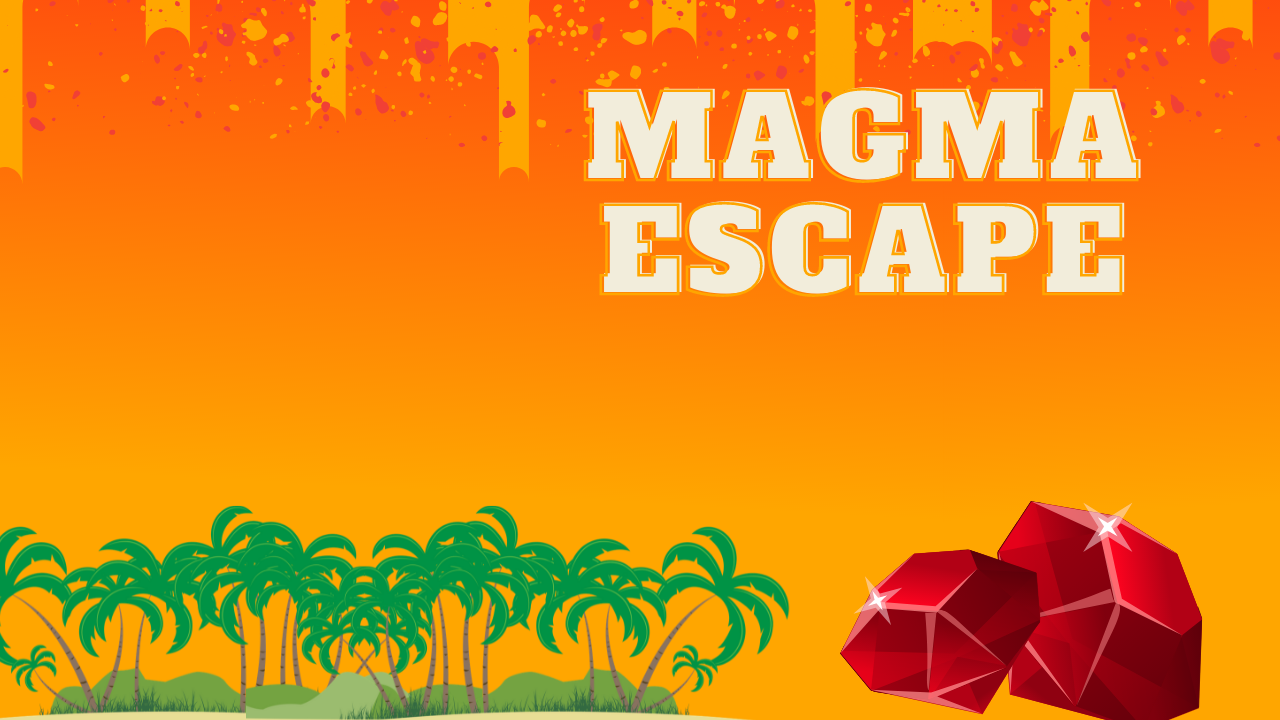
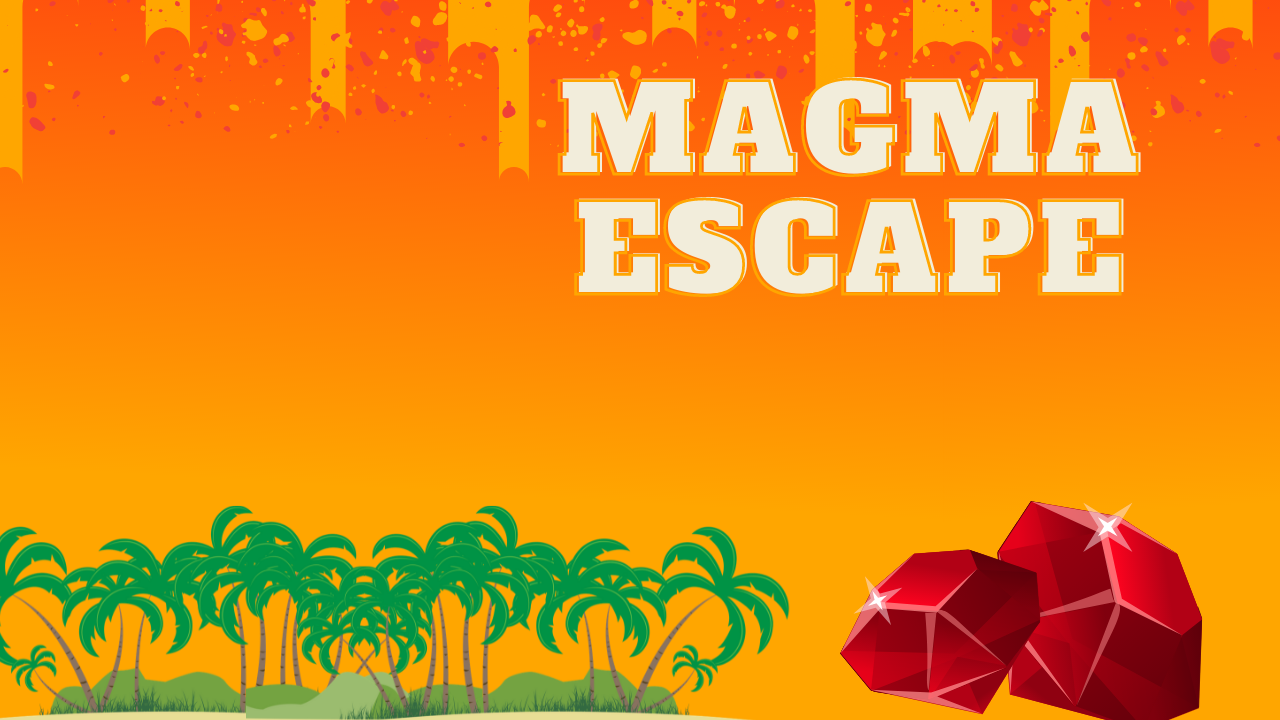
Botones PP, y Ajuste de pantalla principal
Se ajusta la pantalla inicial de acuerdo a las recomendaciones de diseño

Changed region(s): [[0.4375, 0.0917, 0.9062, 0.4278]]

diff --git a/core/src/com/dyan/magmaescape/PantallaMenu.java b/core/src/com/dyan/magmaescape/PantallaMenu.java
@@ -32,7 +32,7 @@ public class PantallaMenu extends Pantalla {
         this.escenaMenu = new Stage(this.vista);
 
         Button btnJugar = this.crearBoton("menuPrincipal/button_jugar.png", "menuPrincipal/button_jugar-2.png");
-        btnJugar.setPosition(3*ANCHO/4, 3*ALTO/6, 1);
+        btnJugar.setPosition(ANCHO-ANCHO*0.34F, 0.43f*ALTO, 1);
         this.escenaMenu.addActor(btnJugar);
         btnJugar.addListener(new ClickListener() {
             public void clicked(InputEvent event, float x, float y) {
@@ -40,7 +40,7 @@ public class PantallaMenu extends Pantalla {
             }
         });
         Button btnAcerca = this.crearBoton("menuPrincipal/button_acerca-de.png", "menuPrincipal/button_acerca-de-2.png");
-        btnAcerca.setPosition(ANCHO/4, 4*ALTO/6, 1);
+        btnAcerca.setPosition(ANCHO/4, ALTO*0.36F+2*ALTO*0.17F, 1);
         this.escenaMenu.addActor(btnAcerca);
         btnAcerca.addListener(new ClickListener() {
             public void clicked(InputEvent event, float x, float y) {
@@ -48,7 +48,7 @@ public class PantallaMenu extends Pantalla {
             }
         });
         Button btnAyuda = this.crearBoton("menuPrincipal/button_ayuda.png", "menuPrincipal/button_ayuda-2.png");
-        btnAyuda.setPosition(ANCHO/4, 3*ALTO/6, 1);
+        btnAyuda.setPosition(ANCHO/4, ALTO*0.36F+ALTO*0.17F, 1);
         this.escenaMenu.addActor(btnAyuda);
         btnAyuda.addListener(new ClickListener() {
             public void clicked(InputEvent event, float x, float y) {
@@ -56,7 +56,7 @@ public class PantallaMenu extends Pantalla {
             }
         });
         Button btnConfiguracion = this.crearBoton("menuPrincipal/button_configuracion.png", "menuPrincipal/button_configuracion-2.png");
-        btnConfiguracion.setPosition(ANCHO/4, 2*ALTO/6, 1);
+        btnConfiguracion.setPosition(ANCHO/4, ALTO*0.36F, 1);
         this.escenaMenu.addActor(btnConfiguracion);
         btnConfiguracion.addListener(new ClickListener() {
             public void clicked(InputEvent event, float x, float y) {
